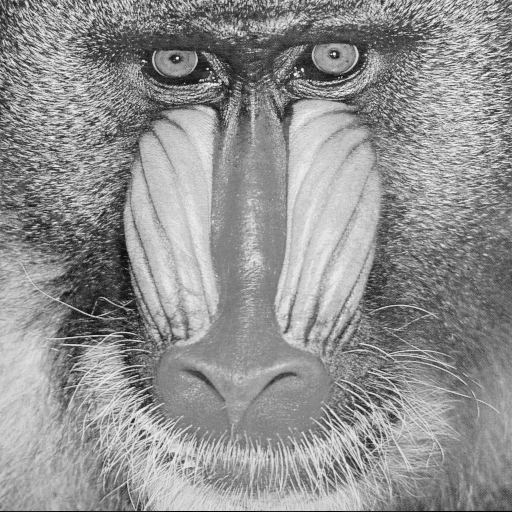
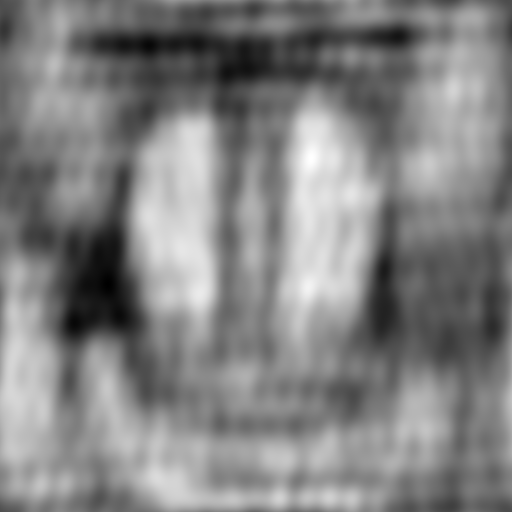
Visualização dos filtros juntamente com imagens resultado

diff --git a/trabalho2/fftFiltering.py b/trabalho2/fftFiltering.py
@@ -49,14 +49,14 @@ def getFiltroRejeitaFaixa(shape):
 
     # Outter Circle parameters
     out_center = (int(shape[0]//2), int(shape[1]//2))  # Center of the circle (x, y)
-    out_radius = 30  # Radius of the circle
+    out_radius = 60  # Radius of the circle
     out_color = 0  # Color of the circle (in BGR format)
     out_thickness = -1  # Thickness of the circle (-1 fills the circle)
     cv2.circle(mask, out_center, out_radius, out_color, out_thickness)
 
-    # Inner Circle parameters
+    # # Inner Circle parameters
     inner_center = (int(shape[0]//2), int(shape[1]//2))  # Center of the circle (x, y)
-    inner_radius = 10  # Radius of the circle
+    inner_radius = 20  # Radius of the circle
     inner_color = 255  # Color of the circle (in BGR format)
     inner_thickness = -1  # Thickness of the circle (-1 fills the circle)
     cv2.circle(mask, inner_center, inner_radius, inner_color, inner_thickness)
@@ -81,35 +81,50 @@ if not os.path.exists(args.inputImg):
 image = cv2.imread(args.inputImg, cv2.IMREAD_GRAYSCALE)
 dft = cv2.dft(np.float32(image), flags=cv2.DFT_COMPLEX_OUTPUT)
 dft_shift = np.fft.fftshift(dft)
+magnitude_spectrum = 20 * np.log(cv2.magnitude(dft_shift[:, :, 0], dft_shift[:, :, 1]))
 
 filtersList = [getFiltroPassaBaixa(image.shape), getFiltroPassaAlta(image.shape), getFiltroPassaFaixa(image.shape), getFiltroRejeitaFaixa(image.shape)]
 labelsArray = ['Filtro Passa Baixa', 'Filtro Passa Alta', 'Filtro Passa Faixa', 'Filtro Rejeita Faixa']
 
 filteredImages = dft_shift * filtersList
 
+magnitude_spectrum_filters = []
+for f in filtersList:
+    magnitude_spectrum_filters.append(np.multiply(magnitude_spectrum, f[:, :, 0]))
+
+
 results = []
-for filteredImage in filteredImages:
-    inverse_fft_shift = np.fft.ifftshift(filteredImage)
+# for filteredImage in filteredImages:
+for i in range(0, len(filteredImages)):
+    # plt.subplot(122), plt.imshow(cv2.normalize(filteredImage[:, :, 0], None, 0, 255, cv2.NORM_MINMAX, dtype=cv2.CV_8U), cmap='gray')
+    # plt.title('Filtered image'), plt.xticks([]), plt.yticks([])
+    # plt.show()
+
+    inverse_fft_shift = np.fft.ifftshift(filteredImages[i])
     inverse_fft_image = cv2.idft(inverse_fft_shift)
     filtered_image_real = cv2.normalize(inverse_fft_image[:, :, 0], None, 0, 255, cv2.NORM_MINMAX, dtype=cv2.CV_8U)
-    results.append(filtered_image_real)
+    results.append((magnitude_spectrum_filters[i], filtered_image_real))
 
 # Display the original and the filtered images
 for i in range(0, len(results)):
-    plt.subplot(121), plt.imshow(image, cmap='gray')
-    plt.title('Input Image'), plt.xticks([]), plt.yticks([])
-    plt.subplot(122), plt.imshow(results[i], cmap='gray')
+    plt.subplot(121), plt.imshow(results[i][0], cmap='gray')
     plt.title(labelsArray[i]), plt.xticks([]), plt.yticks([])
+    plt.subplot(122), plt.imshow(results[i][1], cmap='gray')
+    plt.title('Resultado ' + labelsArray[i]), plt.xticks([]), plt.yticks([])
     plt.show()
 
 # Passa faixa = filtragem de bordas de uma certa espessura???
 
-magnitude = dft_shift[:, :, 0]
-print(magnitude)
-print("------------------------------------------------------------------")
-magnitude[np.abs(magnitude) < 2000] = 0
-dft_shift[:, :, 0] = magnitude
-print(dft_shift[:, :, 0])
+# magnitude = dft_shift[:, :, 0]
+# print(magnitude)
+# print("------------------------------------------------------------------")
+# magnitude[np.abs(magnitude) < 200000] = 0
+# dft_shift[:, :, 0] = magnitude
+# print(dft_shift[:, :, 0])
+
+# mexendo em ambas magnitude e fase, o resultado fica mais parecido com a imagem
+# de exemplo no enunciado do relatório...
+dft_shift[np.abs(dft_shift) < 150000] = 0
 
 inverse_fft_shift = np.fft.ifftshift(dft_shift)
 inverse_fft_image = cv2.idft(inverse_fft_shift)

diff --git a/trabalho2/testesFiltro/teste.py b/trabalho2/testesFiltro/teste.py
@@ -24,11 +24,17 @@ plt.subplot(122), plt.imshow(magnitude_spectrum, cmap='gray')
 plt.title('Magnitude Spectrum'), plt.xticks([]), plt.yticks([])
 plt.show()
 
-print(image.shape)
-print(magnitude_spectrum)
+
+
+
+
+
+
+
+
 
 # mask = np.zeros((image.shape[0], image.shape[1], 1), dtype=np.uint8)
-mask = np.zeros((image.shape[0], image.shape[1], 1), dtype=np.uint8)
+mask = np.zeros((image.shape[0], image.shape[1]), dtype=np.uint8)
 # Circle parameters
 center = (int(image.shape[0]//2), int(image.shape[1]//2))  # Center of the circle (x, y)
 radius = 30  # Radius of the circle
@@ -36,54 +42,15 @@ color = 255 # 255  # Color of the circle (in BGR format)
 thickness = -1  # Thickness of the circle (-1 fills the circle)
 cv2.circle(mask, center, radius, color, thickness)
 
-
-
-
-result = np.multiply(dft_shift, mask)
+result = np.multiply(magnitude_spectrum, mask)
 # result = dft_shift * mask[:, :, np.newaxis]
 print("dft_shift.shape -> ", dft_shift.shape)
 # result = dft_shift * mask
 print(result)
 
-magnitude_spectrum_mask = 20 * np.log(cv2.magnitude(result[:, :, 0], result[:, :, 1]))
-# magnitude_spectrum_mask = cv2.magnitude(result[:, :, 0], result[:, :, 1])
-print(magnitude_spectrum_mask)
-
-# magnitude_spectrum_normalized = cv2.normalize(magnitude_spectrum_mask, None, 0, 255, cv2.NORM_MINMAX)
-# magnitude_spectrum_log = np.log1p(magnitude_spectrum_normalized)
-
 # Display the original and magnitude spectrum
 plt.subplot(121), plt.imshow(image, cmap='gray')
 plt.title('Input Image'), plt.xticks([]), plt.yticks([])
-plt.subplot(122), plt.imshow(magnitude_spectrum_mask, cmap='gray')
+plt.subplot(122), plt.imshow(result, cmap='gray')
 plt.title('Magnitude Spectrum'), plt.xticks([]), plt.yticks([])
 plt.show()
-
-
-
-
-
-
-
-
-
-
-
-
-
-# inverse_fft_shift = np.fft.ifftshift(result)
-# filtered_image = cv2.idft(inverse_fft_shift)
-# print("filtered_image.shape -> ", filtered_image.shape)
-
-# # Compute the magnitude spectrum of the filtered image
-# # filtered_magnitude_spectrum = cv2.magnitude(filtered_image[:, :, 0], filtered_image[:, :, 1])
-
-# # filtered_image_real = cv2.normalize(cv2.magnitude(filtered_image[:, :, 0], filtered_image[:, :, 1]), None, alpha=0, beta=255, norm_type=cv2.NORM_MINMAX, dtype=cv2.CV_8U)
-# filtered_image_real = cv2.normalize(filtered_image[:, :, 0], None, 0, 255, cv2.NORM_MINMAX, dtype=cv2.CV_8U)
-
-# # Display the original and the filtered image
-# plt.subplot(121), plt.imshow(image, cmap='gray')
-# plt.title('Input Image'), plt.xticks([]), plt.yticks([])
-# plt.subplot(122), plt.imshow(filtered_image_real, cmap='gray')
-# plt.title('Filtered image'), plt.xticks([]), plt.yticks([])
-# plt.show()

diff --git a/trabalho2/testesFiltro/innerAndOutterCircle.py b/trabalho2/testesFiltro/innerAndOutterCircle.py
@@ -1,0 +1,29 @@
+import cv2
+import numpy as np
+
+# Create a black image
+image = np.zeros((300, 300), dtype=np.uint8)
+
+# Circle parameters
+center = (150, 150)  # Center of the circles (x, y)
+outer_radius = 100  # Radius of the outer circle
+inner_radius = 50   # Radius of the inner circle
+
+# Create masks for the circles
+outer_circle_mask = np.zeros_like(image)
+inner_circle_mask = np.zeros_like(image)
+
+# Draw the outer and inner circles on their respective masks
+cv2.circle(outer_circle_mask, center, outer_radius, (255), -1)  # Outer circle (white)
+cv2.circle(inner_circle_mask, center, inner_radius, (255), -1)  # Inner circle (white)
+
+# Subtract the inner circle mask from the outer circle mask to get the area between the circles
+area_between_circles = cv2.subtract(outer_circle_mask, inner_circle_mask)
+
+# Paint the area between the circles in black
+image = cv2.bitwise_and(image, image, mask=area_between_circles)
+
+# Display the image
+cv2.imshow('Area Between Circles', image)
+cv2.waitKey(0)
+cv2.destroyAllWindows()

diff --git a/trabalho2/filterTest.py b/trabalho2/filterTest.py
@@ -21,6 +21,7 @@ mask = np.ones((rows, cols, 2), np.uint8)
 mask[crow - 30:crow + 30, ccol - 30:ccol + 30] = 0
 
 # Apply the filter to the magnitude spectrum
+# filtered_spectrum = dft_shift * mask
 filtered_spectrum = dft_shift * mask
 
 # Inverse transform the filtered spectrum
